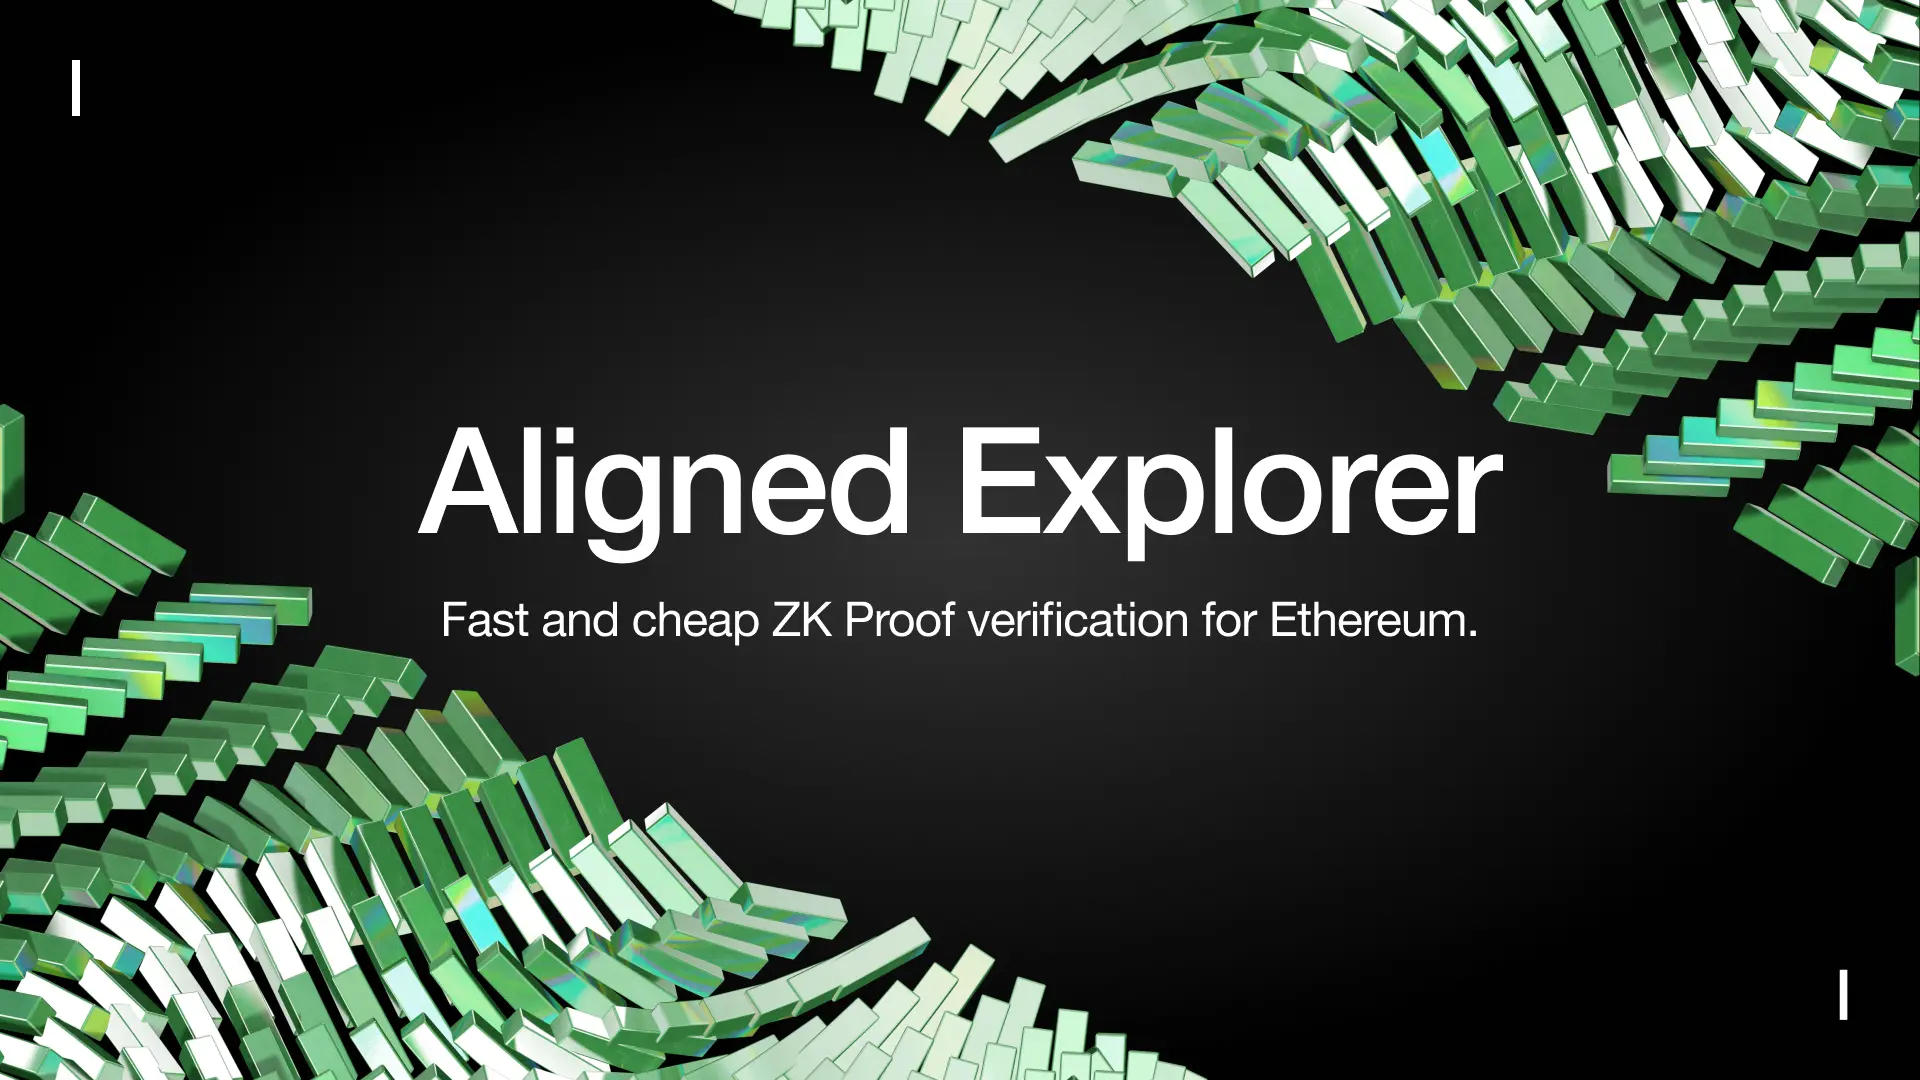
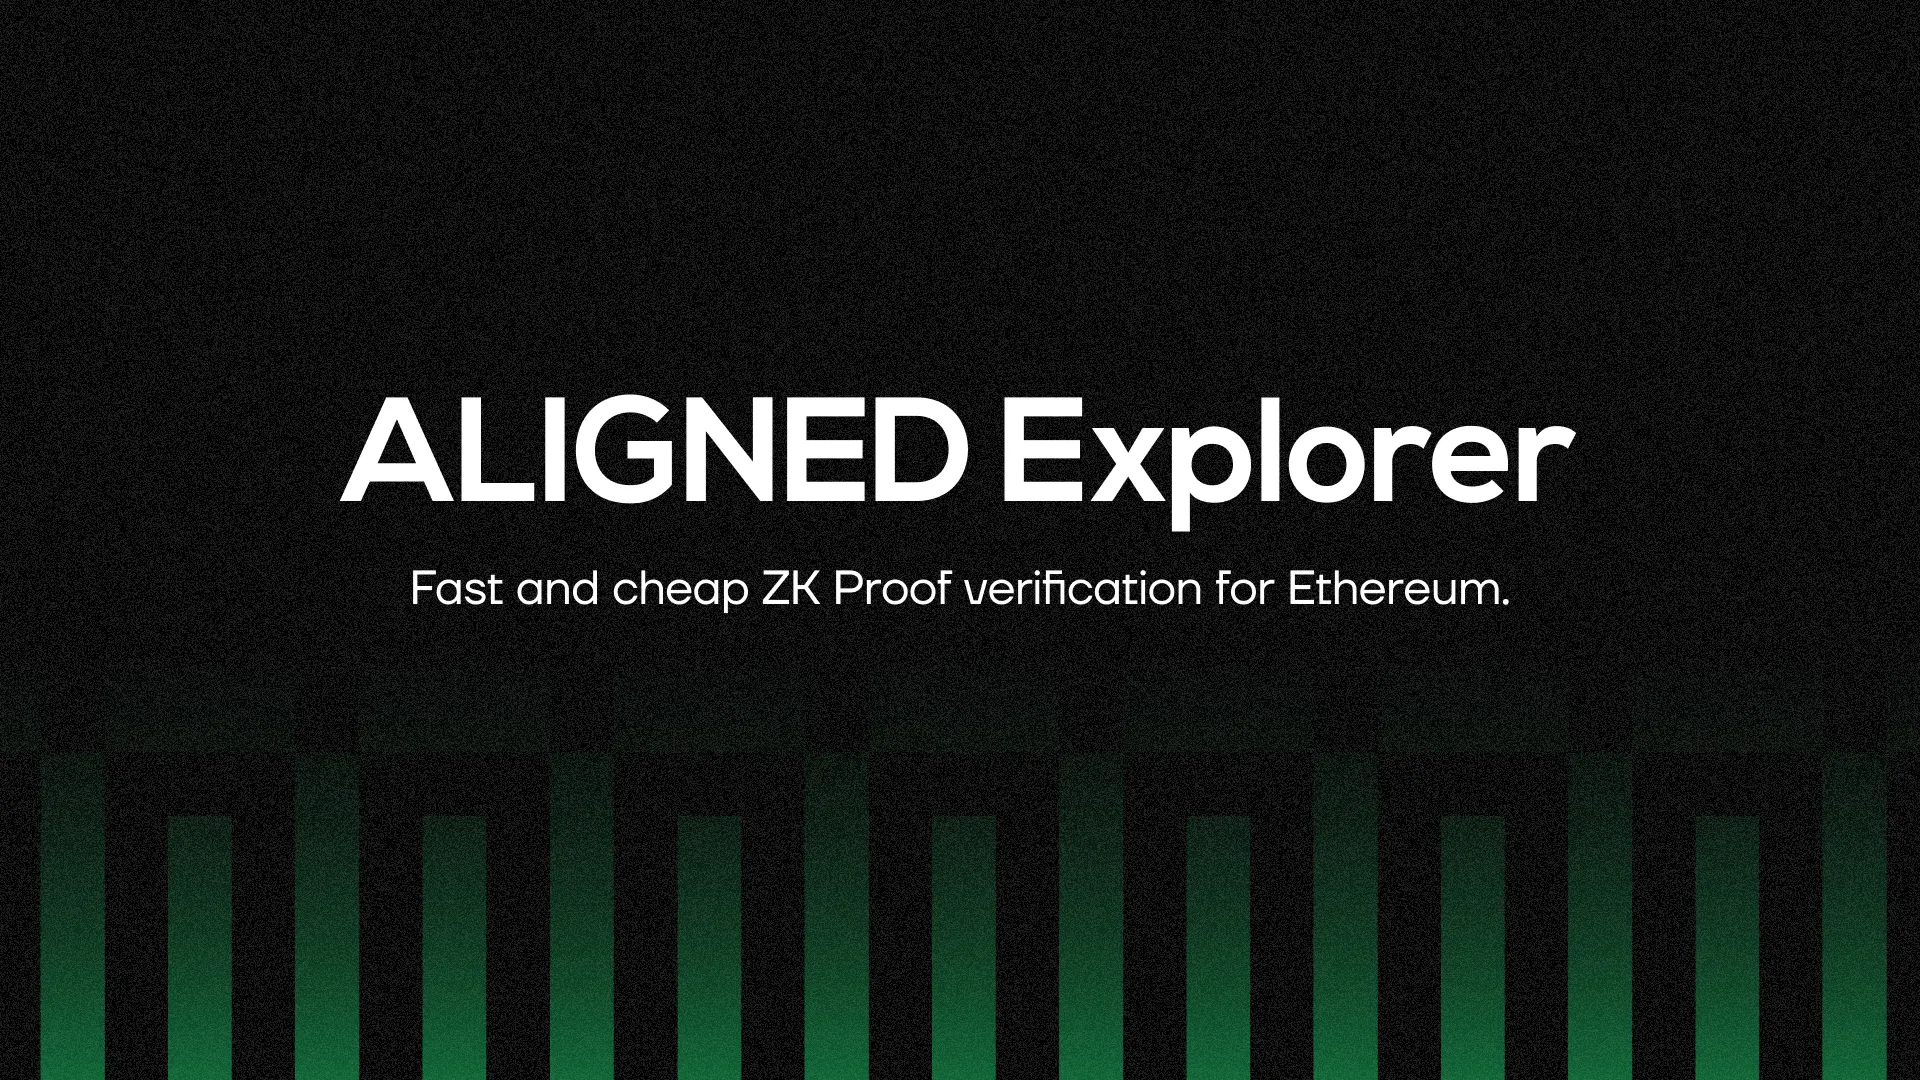
style(explorer): remove background and update colors (#727)

diff --git a/explorer/assets/css/app.css b/explorer/assets/css/app.css
@@ -3,48 +3,48 @@
 @import "tailwindcss/utilities";
 
 @layer base {
-	:root {
-		--background: 101 68% 98%;
-		--foreground: 101 57% 0%;
-		--muted: 281 12% 92%;
-		--muted-foreground: 281 0% 33%;
-		--popover: 111.43 63.64% 97.84%;
-		--popover-foreground: 101 57% 0%;
-		--card: 111.43 63.64% 97.84%;
-		--card-foreground: 0 0% 0%;
-		--border: 101 3% 90%;
-		--input: 101 3% 90%;
-		--primary: 117.66 58.78% 74.31%;
-		--primary-foreground: 0 0% 8.85%;
-		--secondary: 165.75 41.24% 38.04%;
-		--secondary-foreground: 281 78% 97%;
-		--accent: 155.58 34.4% 49.02%;
-		--accent-foreground: 281 78% 97%;
-		--destructive: 1 83% 34%;
-		--destructive-foreground: 1 83% 94%;
-		--ring: 134.46 50.3% 67.65%;
-		--radius: 0.5rem;
-	}
+    :root {
+        --background: 0 0% 100%;
+        --foreground: 101 57% 0%;
+        --muted: 281 12% 92%;
+        --muted-foreground: 281 0% 33%;
+        --popover: 0 0% 100%;
+        --popover-foreground: 101 57% 0%;
+        --card: 0 0% 100%;
+        --card-foreground: 0 0% 0%;
+        --border: 101 3% 90%;
+        --input: 101 3% 90%;
+        --primary: 0 0% 0%;
+        --primary-foreground: 0 0% 100%;
+        --secondary: 201.97 97.26% 14.31%;
+        --secondary-foreground: 0 0% 100%;
+        --accent: 146.75 100% 54.71%;
+        --accent-foreground: 0 0% 0%;
+        --destructive: 1 83% 34%;
+        --destructive-foreground: 1 83% 94%;
+        --ring: 146.75 100% 54.71%;
+        --radius: 0.5rem;
+    }
 
-	.dark {
-		--background: 101 53% 0%;
-		--foreground: 101 22% 99%;
-		--muted: 281 12% 8%;
-		--muted-foreground: 281 0% 67%;
-		--popover: 101 53% 0%;
-		--popover-foreground: 101 22% 99%;
-		--card: 0 0% 1%;
-		--card-foreground: 0 0% 100%;
-		--border: 101 3% 12%;
-		--input: 101 3% 12%;
-		--primary: 117.66 58.78% 74.31%;
-		--primary-foreground: 0 0% 11.54%;
-		--secondary: 164.68 46.53% 19.8%;
-		--secondary-foreground: 281 78% 97%;
-		--accent: 165.88 42.5% 31.37%;
-		--accent-foreground: 281 78% 97%;
-		--destructive: 1 83% 50%;
-		--destructive-foreground: 0 0% 100%;
-		--ring: 165.75 41.24% 38.04%;
-	}
+    .dark {
+        --background: 0 0% 0%;
+        --foreground: 101 22% 99%;
+        --muted: 281 12% 8%;
+        --muted-foreground: 281 0% 67%;
+        --popover: 101 53% 0%;
+        --popover-foreground: 101 22% 99%;
+        --card: 0 0% 1%;
+        --card-foreground: 0 0% 100%;
+        --border: 101 3% 12%;
+        --input: 101 3% 12%;
+        --primary: 146.75 100% 54.71%;
+        --primary-foreground: 0 0% 11.54%;
+        --secondary: 201.97 97.26% 14.31%;
+        --secondary-foreground: 281 78% 97%;
+        --accent: 146.75 100% 54.71%;
+        --accent-foreground: 0 0% 0%;
+        --destructive: 1 83% 50%;
+        --destructive-foreground: 0 0% 100%;
+        --ring: 168.51 79.66% 23.14%;
+    }
 }

diff --git a/explorer/assets/js/app.js b/explorer/assets/js/app.js
@@ -40,7 +40,7 @@ let liveSocket = new LiveSocket("/live", Socket, {
 
 // Show progress bar on live navigation and form submits
 topbar.config({
-	barColors: { 0: "#9AE497" },
+	barColors: { 0: "#18FF7F" },
 	shadowColor: "rgba(0, 0, 0, .3)"
 });
 window.addEventListener("phx:page-loading-start", (_info) =>
